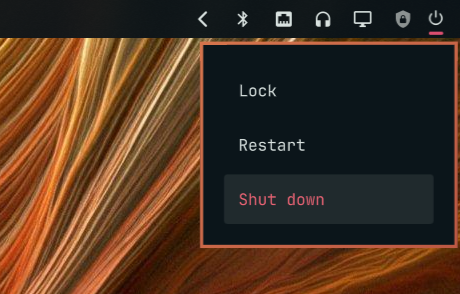
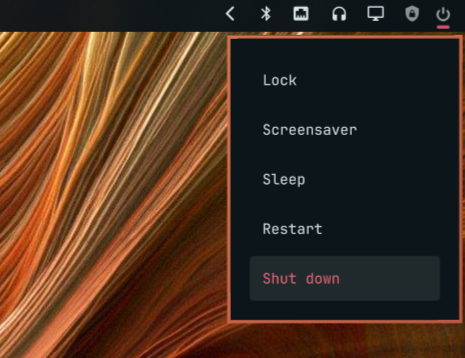
Refresh README and preview

diff --git a/README.md b/README.md
@@ -1,19 +1,14 @@
 # Simple Power Menu
 
-A compact power menu for the Omarchy bar. It adds a fine-line power icon and
-opens a small native popover beside the icon rather than a menu in the middle
-of the screen.
+A compact power menu. It adds a power icon and implements a small native
+popover under the bar. That's it.
 
 ![Simple Power Menu open beneath the power icon](preview.png)
 
 ## Features
 
-- Compact 12px power glyph with a fine stroke
-- Native popover anchored to the bar icon
-- Lock, screensaver, sleep, restart, and shut-down actions
-- Right-click checklist for choosing which actions the main menu shows
-- Preferences saved in the widget's existing Omarchy bar configuration
-- Mouse and keyboard navigation
+- Menu: Lock, Screensaver, Sleep, Restart, and Shut down
+- Options: Right-click the icon to toggle which actions are displayed
 - Follows the active Omarchy theme and bar position
 
 ## Requirements
